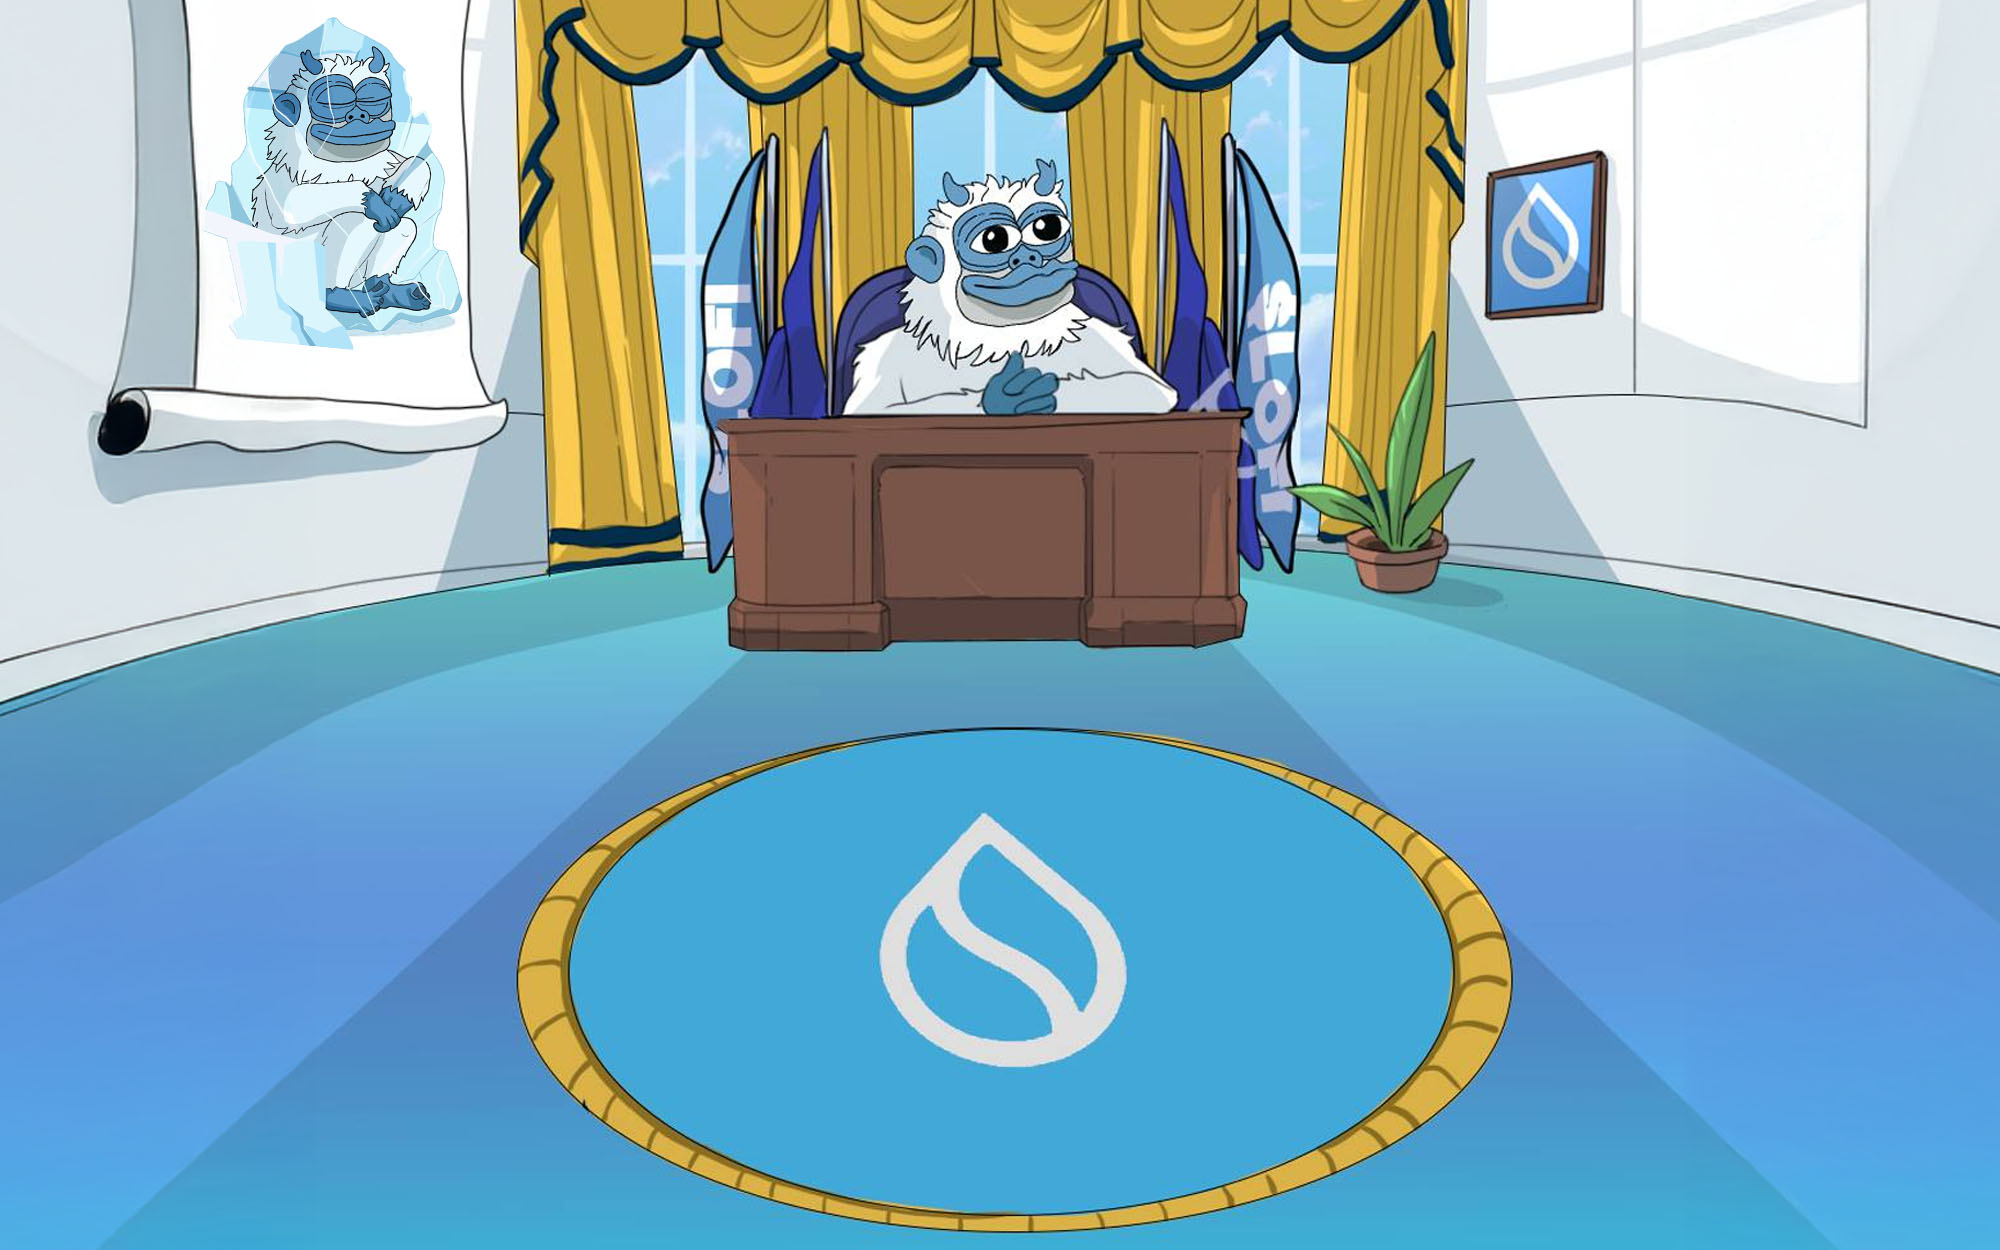
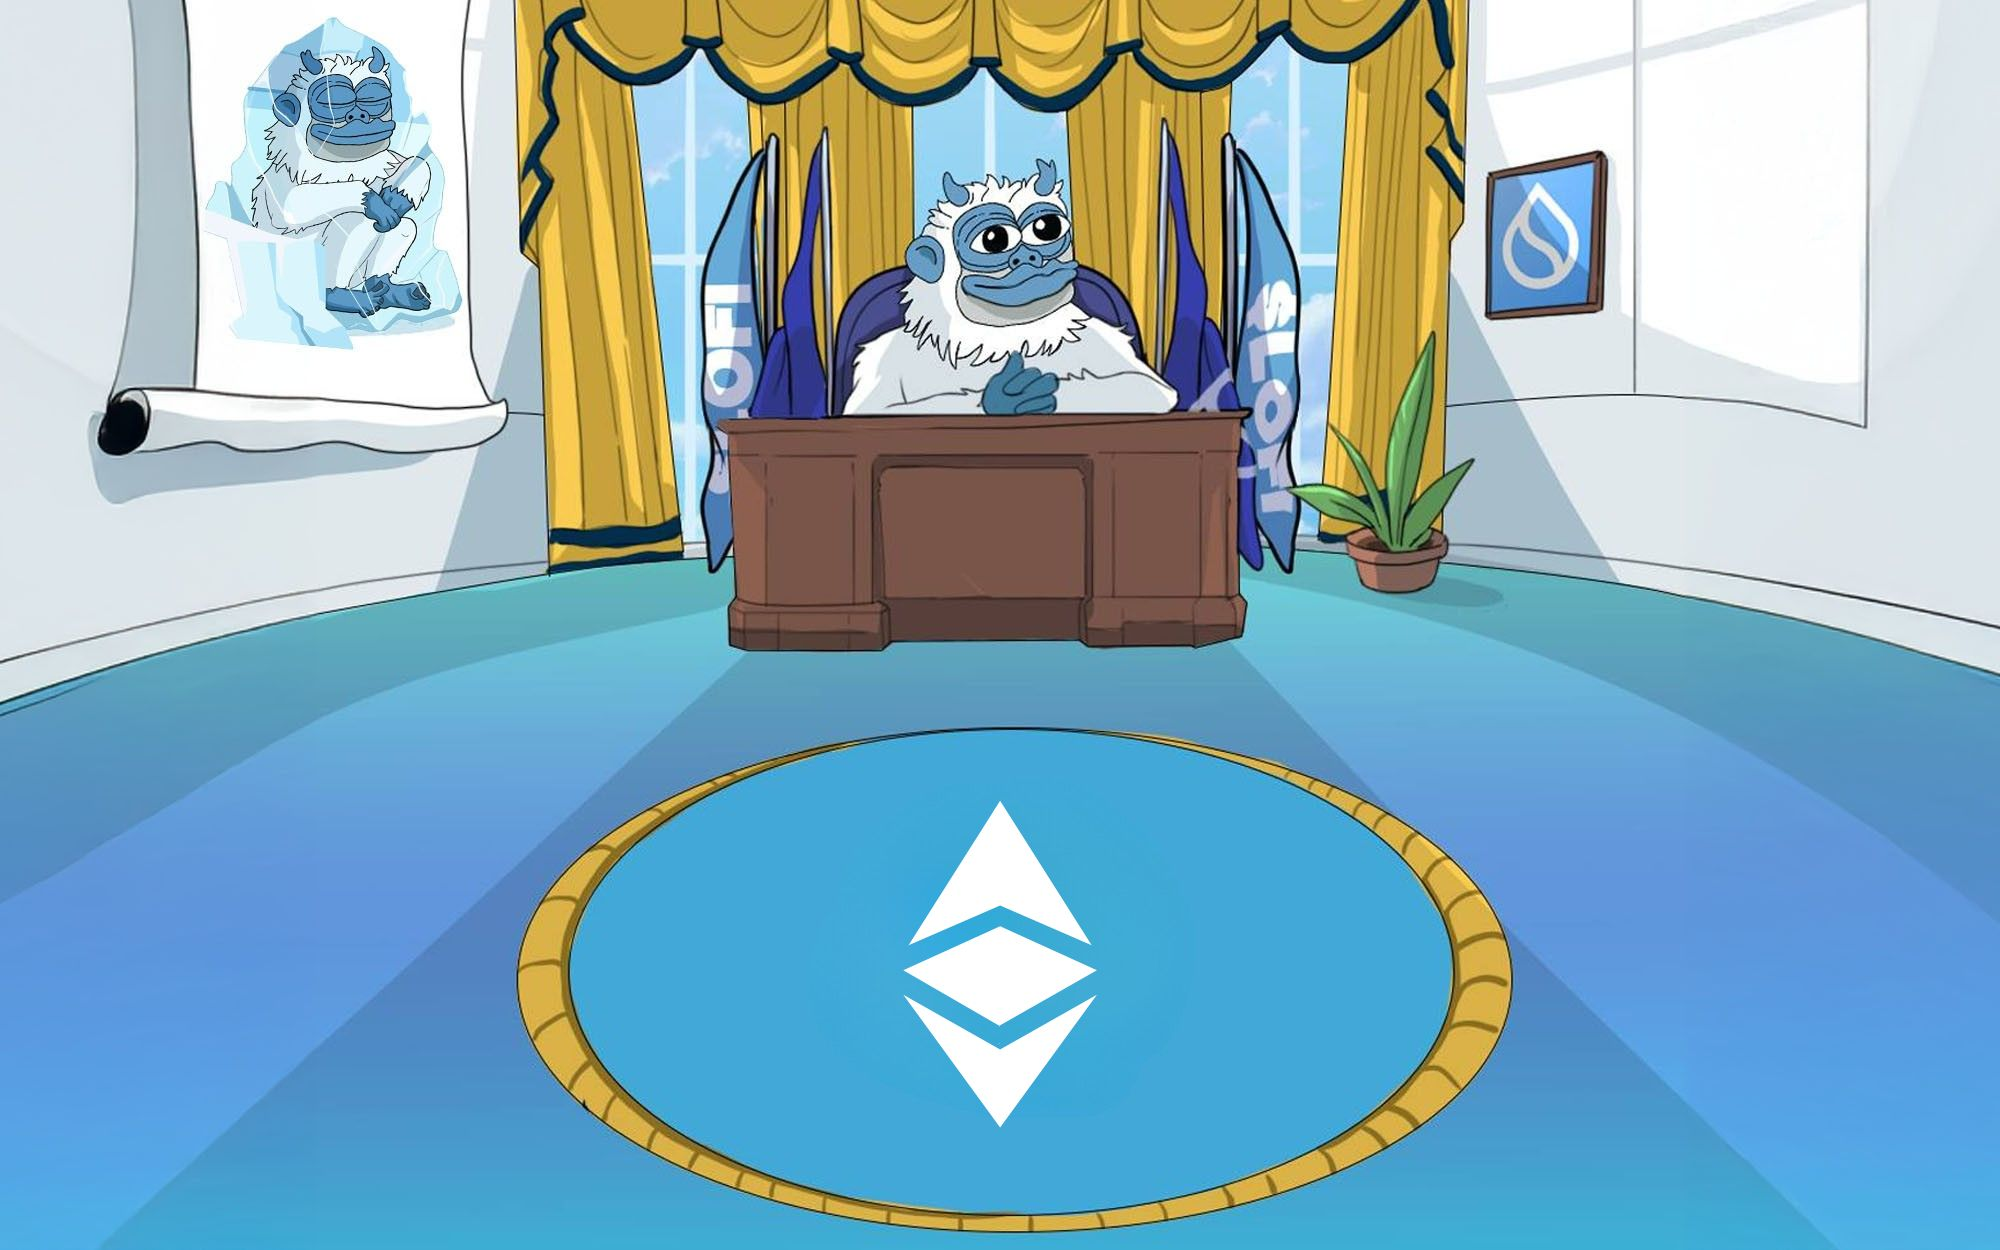
i

Changed region(s): [[0.434, 0.6552, 0.589, 0.9048]]

diff --git a/index.html b/index.html
@@ -88,7 +88,7 @@
         </div>
       </div>
       <div class="div-block-12"><img sizes="100vw" srcset="images/BackgroundImage_TopScreen_IcePlatformsBG-p-500.jpg 500w, images/BackgroundImage_TopScreen_IcePlatformsBG-p-800.jpg 800w, images/BackgroundImage_TopScreen_IcePlatformsBG-p-1080.jpg 1080w, images/BackgroundImage_TopScreen_IcePlatformsBG-p-1600.jpg 1600w, images/BackgroundImage_TopScreen_IcePlatformsBG.jpg 2000w" alt="" src="images/BackgroundImage_TopScreen_IcePlatformsBG.jpg" class="image-6"></div>
-    </div>
+    </div> 
   </div>
   <div class="marquee">
     <div class="marquee-content scroll">
@@ -194,7 +194,7 @@
             <div class="modal-body">
               <div class="container-width-medium">
                 <div class="div-block-9">
-                  <h1 class="heading-jumbo smaller">3. Go to Cetus</h1>
+                  <h1 class="heading-jumbo smaller">3. Go to Uniswap</h1>
                 </div>
                 <div class="paragraph break">Connect your wallet. Paste the $LOFI token address in or search for the token using the $LOFI ticker. Additionally, you can use a ETH aggregator to buy LOFI like Hop. Visit <a href="https://app.uniswap.org/swap?chain=mainnet&inputCurrency=NATIVE&outputCurrency=0xComingSoon" target="_blank">Uniswap.org</a> and search for the $LOFI ticker with the contract address:<br><br><span class="breakall">0xComingSoon<br></span><span class="smaller"><br></span>Then choose your buy amount and confirm the switch. When prompted for a wallet signature, sign.</div>
               </div>
@@ -374,7 +374,7 @@
                 <div class="div-block-9">
                   <h1 class="heading-jumbo medium">Lofi Tokenomics</h1>
                 </div>
-                <div class="paragraph">LOFI was a fair launch done on Cetus with a healthy liquidity pool to support future project growth and instill trust in the project.</div>
+                <div class="paragraph">LOFI was a fair launch done on Uniswap with a healthy liquidity pool to support future project growth and instill trust in the project.</div>
                 <div class="paragraph"><strong>- Operations Treasury: 0%</strong></div>
                 <div class="paragraph"><strong>- Market Making &amp; CEX Listings: 0%</strong></div>
                 <div class="paragraph"><strong>- Liquidity Pool: 100%</strong></div>
